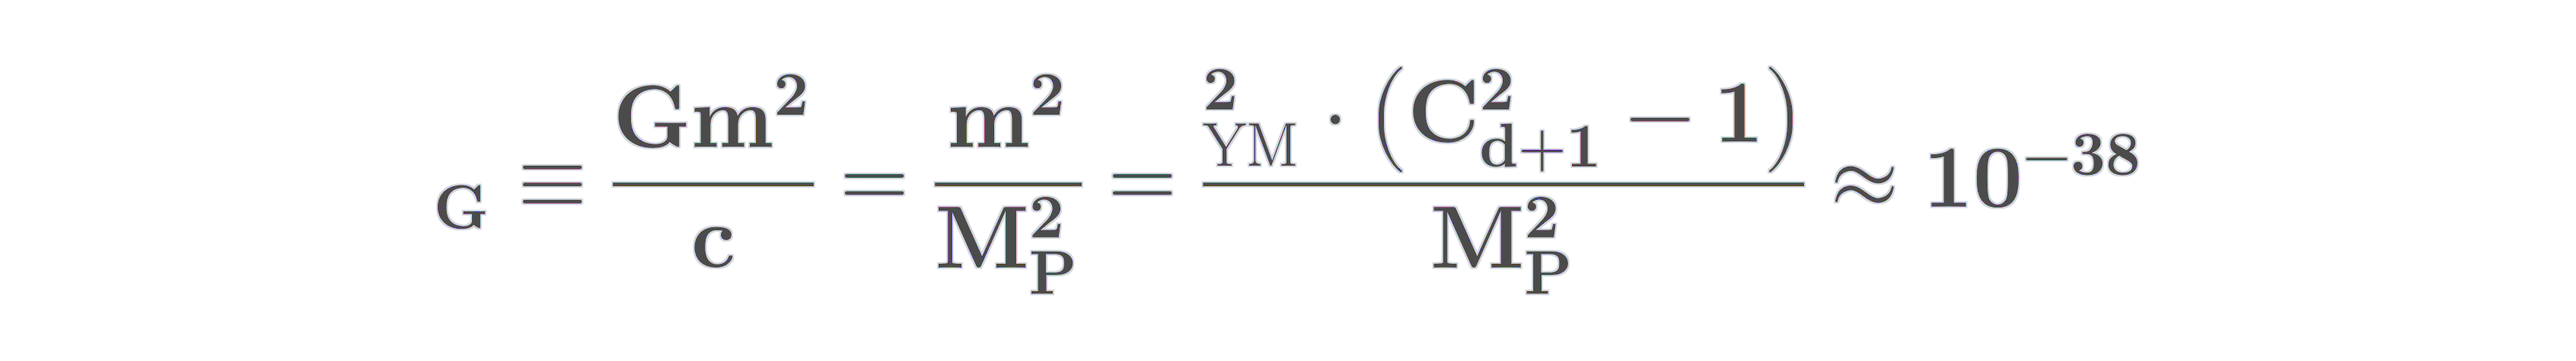
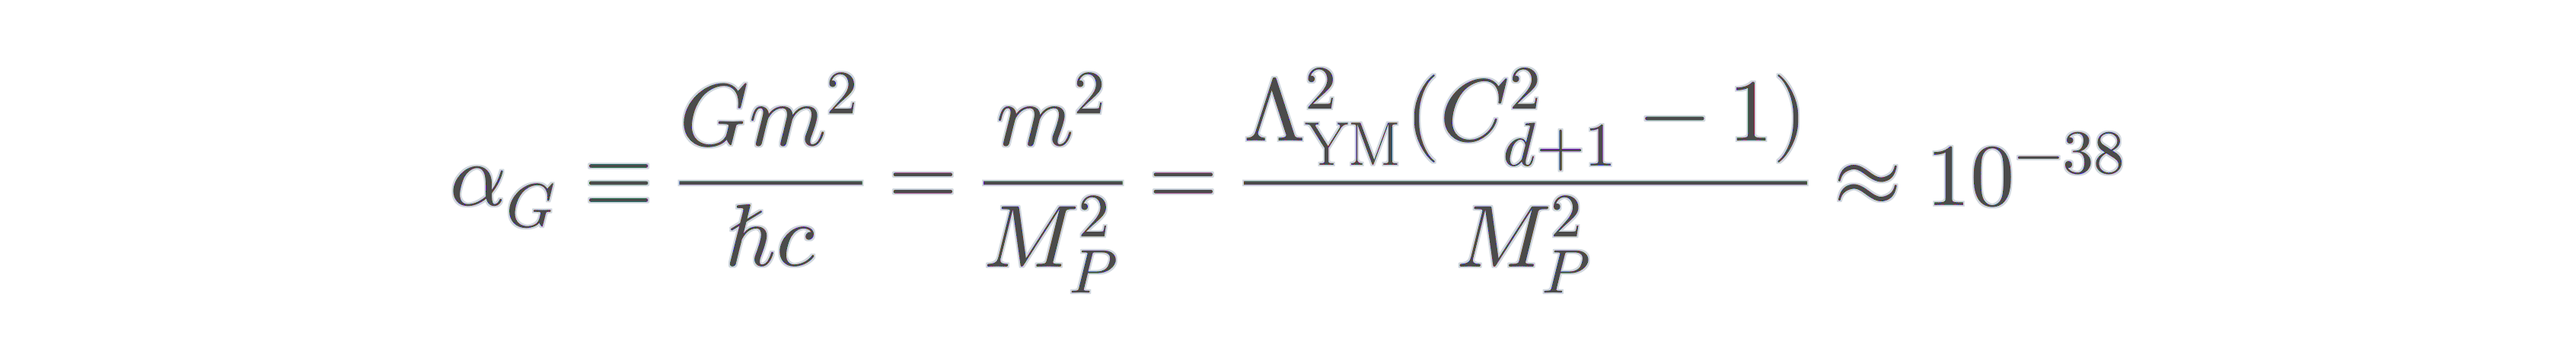
fix(eq25): restauration des glyphes grecs et balise lang=fr

Changed region(s): [[0.1551, 0.1772, 0.8378, 0.827], [0.2172, 0.2068, 0.3413, 0.4135], [0.3723, 0.2068, 0.4344, 0.4135]]

diff --git a/README.md b/README.md
@@ -1,3 +1,5 @@
+<div lang="fr">
+
 <div align="center">
 
 # Yang–Mills Spectral Mass Gap
@@ -423,5 +425,8 @@ NRS Noncommercial License 1.0.0, voir [`LICENSE`](LICENSE).
 ### 🌌 *« L'écart spectral de masse n'est pas un miracle topologique abstrait : c'est le coût énergétique du temps quantique. »*
 
 **Eduardo Nava Hernández · José Arturo Nava Hernández** · [naype888-cloud](https://github.com/naype888-cloud)
+
+</div>
+
 
 </div>
